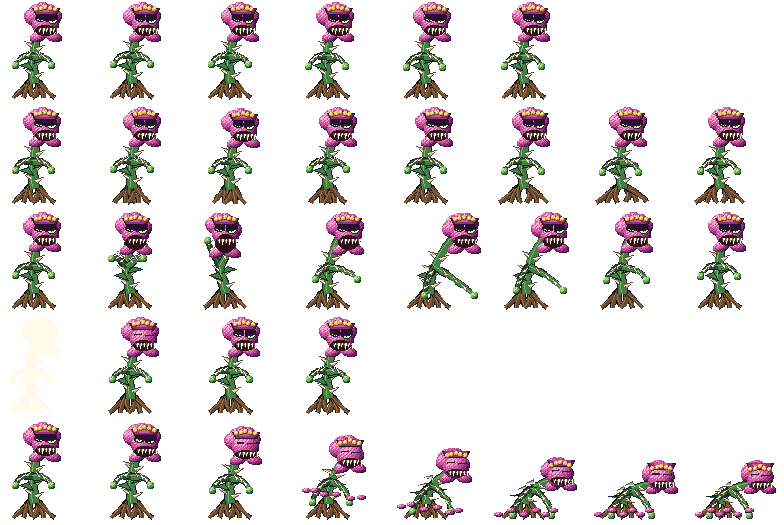
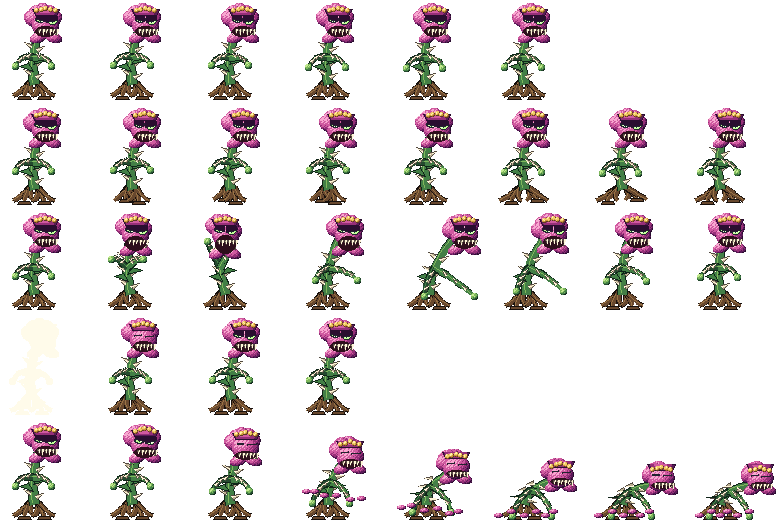
Moonspore Canopy enemy art: planted feet and roots, frame-aware atlas assertions

diff --git a/scripts/moonspore_slime_redraw.py b/scripts/moonspore_slime_redraw.py
@@ -708,8 +708,9 @@ def nightbloom(clip, n):
         swing = math.sin(ph + k * math.pi) * 6 if clip == 'walk' else 0
         lift = max(0, math.sin(ph + k * math.pi)) * 4 if clip == 'walk' else 0
         for j in range(3):
-            pts = bez((fx * .4, 22), (fx + swing + (j - 1) * 6, 8 + lift), (fx + swing + (j - 1) * 14, 1 + lift * .3), 5)
+            pts = bez((fx * .4, 22), (fx + swing + (j - 1) * 6, 8 + lift), (fx + swing + (j - 1) * 14, 5 + lift * .3), 5)
             taper(a, pts, BARK, 8 - j, 4)
+        a.poly([(fx + swing - 8, lift), (fx + swing + 10, lift), (fx + swing + 8, lift + 4), (fx + swing - 6, lift + 4)], BARK[2], outline=BARK[0])
     bend = -w * 18 + st * 24 + sway * 3 + wilt * 38
     sag = wilt * 46
     stem = bez((0, 20), (-6 + bend * .2, 54 - sag * .3), (6 + bend, 92 - sag), 8)
